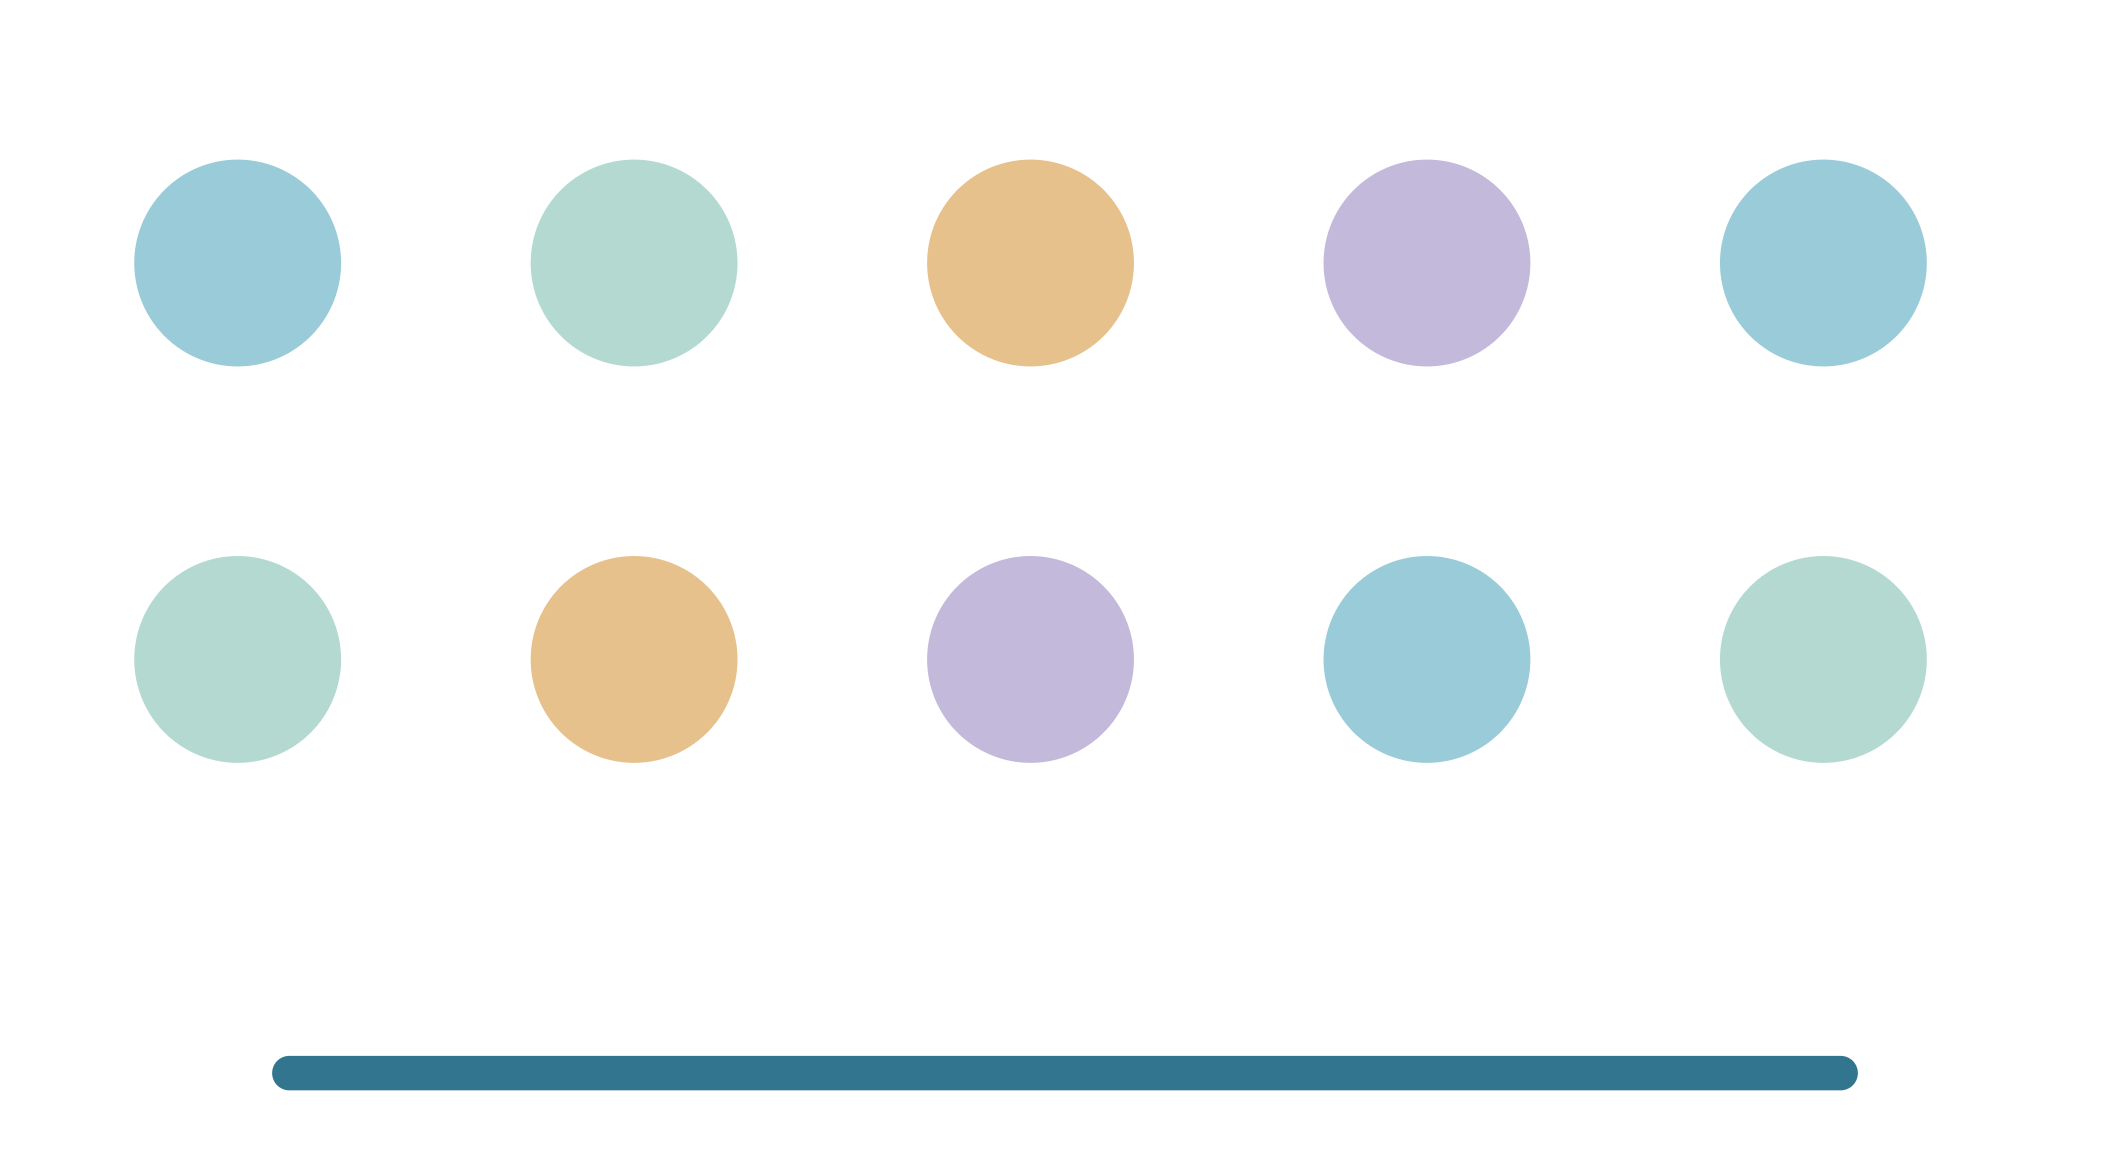
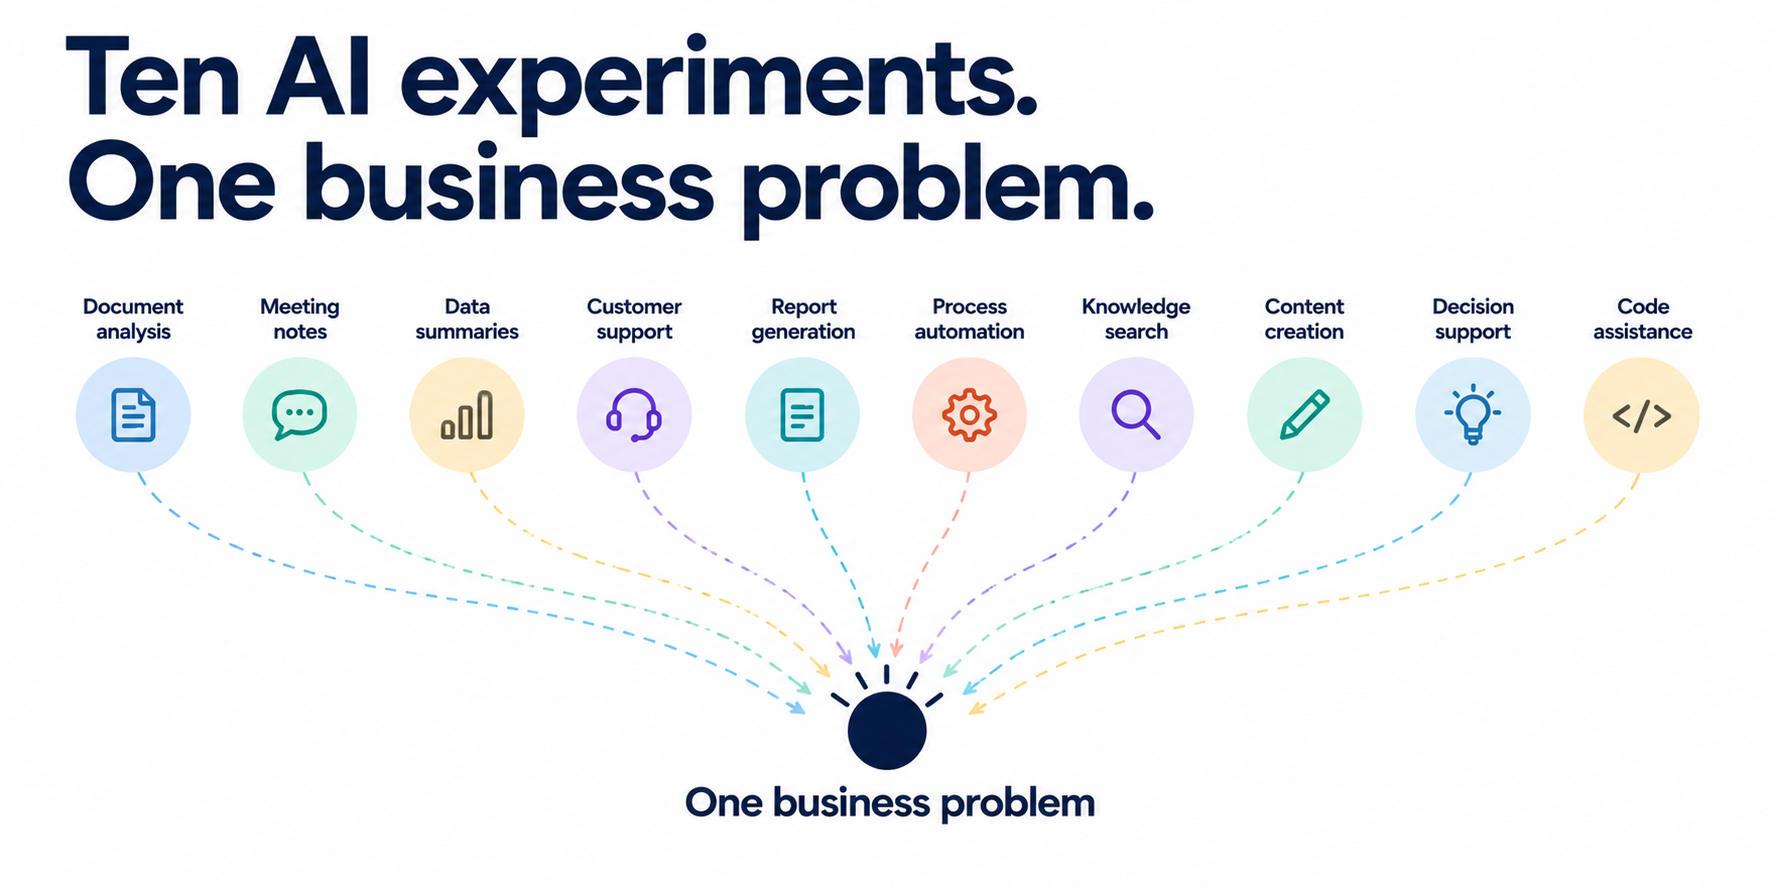
Replace featured images for AI experiment and demo-to-service blogs

Changed region(s): [[0.031, 0.0304, 0.9611, 0.6697], [0.124, 0.7001, 0.8991, 0.9436]]

diff --git a/src/content/blog/the-invisible-work-between-a-demo-and-a-service.md b/src/content/blog/the-invisible-work-between-a-demo-and-a-service.md
@@ -2,7 +2,7 @@
 title: "The Invisible Work Between a Demo and a Service"
 publishDate: 2026-10-27 00:00:00
 img: ../../assets/blogimg/4-the-invisible-work-between-demo-and-service.png
-img_alt: "A small light-blue circle and a large dark-blue circle joined by a line with three colored milestones, representing the journey from a demo to a dependable service."
+img_alt: "From demo to production service: validate value, ensure quality, integrate data and systems, address security and compliance, plan operations, and define ownership and support."
 description: |
   A convincing AI demo is only the beginning. Explore the data, reliability, integrations, operations and ownership needed to turn a prototype into a dependable business service.
 author: Marjukka Niinioja, founding partner at Osaango

diff --git a/src/content/blog/ten-ai-experiments-one-business-problem.md b/src/content/blog/ten-ai-experiments-one-business-problem.md
@@ -2,7 +2,7 @@
 title: "Ten AI Experiments. One Business Problem."
 publishDate: 2026-10-27 00:00:00
 img: ../../assets/blogimg/2-ten-ai-experiments-one-business-problem.png
-img_alt: "Ten pastel circles arranged in two rows above a shared blue line, representing individual AI experiments and their common business context."
+img_alt: "Ten AI experiments, including document analysis, meeting notes, reporting and code assistance, converge on one business problem."
 description: |
   More AI prototypes don't necessarily mean more innovation. Learn how to reduce uncertainty, reuse existing capabilities and choose when to experiment, improve or stop.
 author: Marjukka Niinioja, founding partner at Osaango
